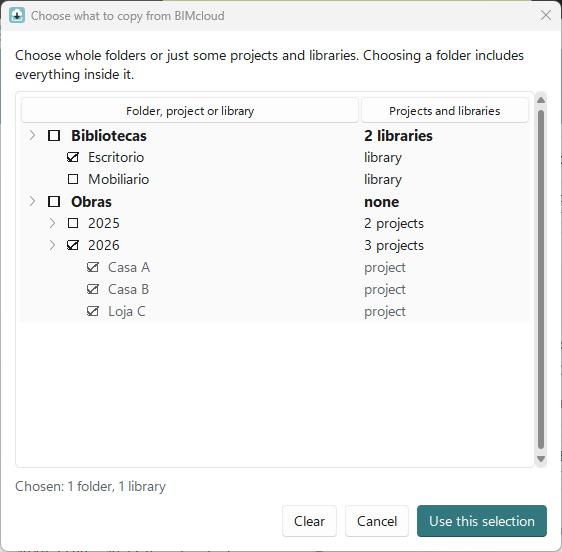
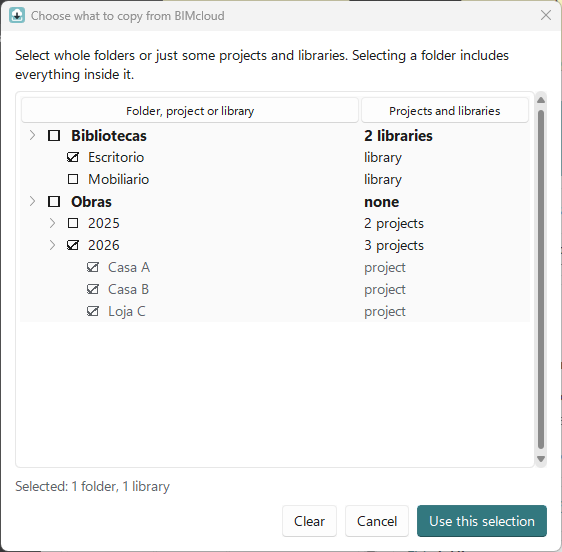
fix: keep the network path in the destination help
A single backslash before "folder" turned into a form feed. A test now rejects control characters in both locales. English screenshots updated with the new texts.

diff --git a/tests/test_i18n.py b/tests/test_i18n.py
@@ -42,6 +42,13 @@ def test_both_languages_have_the_same_texts_and_fields():
         assert text.strip() and portuguese[key].strip(), key
 
 
+@pytest.mark.parametrize("language", sorted(i18n.LANGUAGES))
+def test_texts_have_no_control_characters(language):
+    # A Windows path like "\folder" written with one backslash in JSON becomes "\f" + "older".
+    for key, text in i18n.texts(language).items():
+        assert not any(ord(c) < 32 and c != "\n" for c in text), key
+
+
 def test_every_text_the_code_asks_for_exists():
     english = i18n.texts("en")
     missing = []
